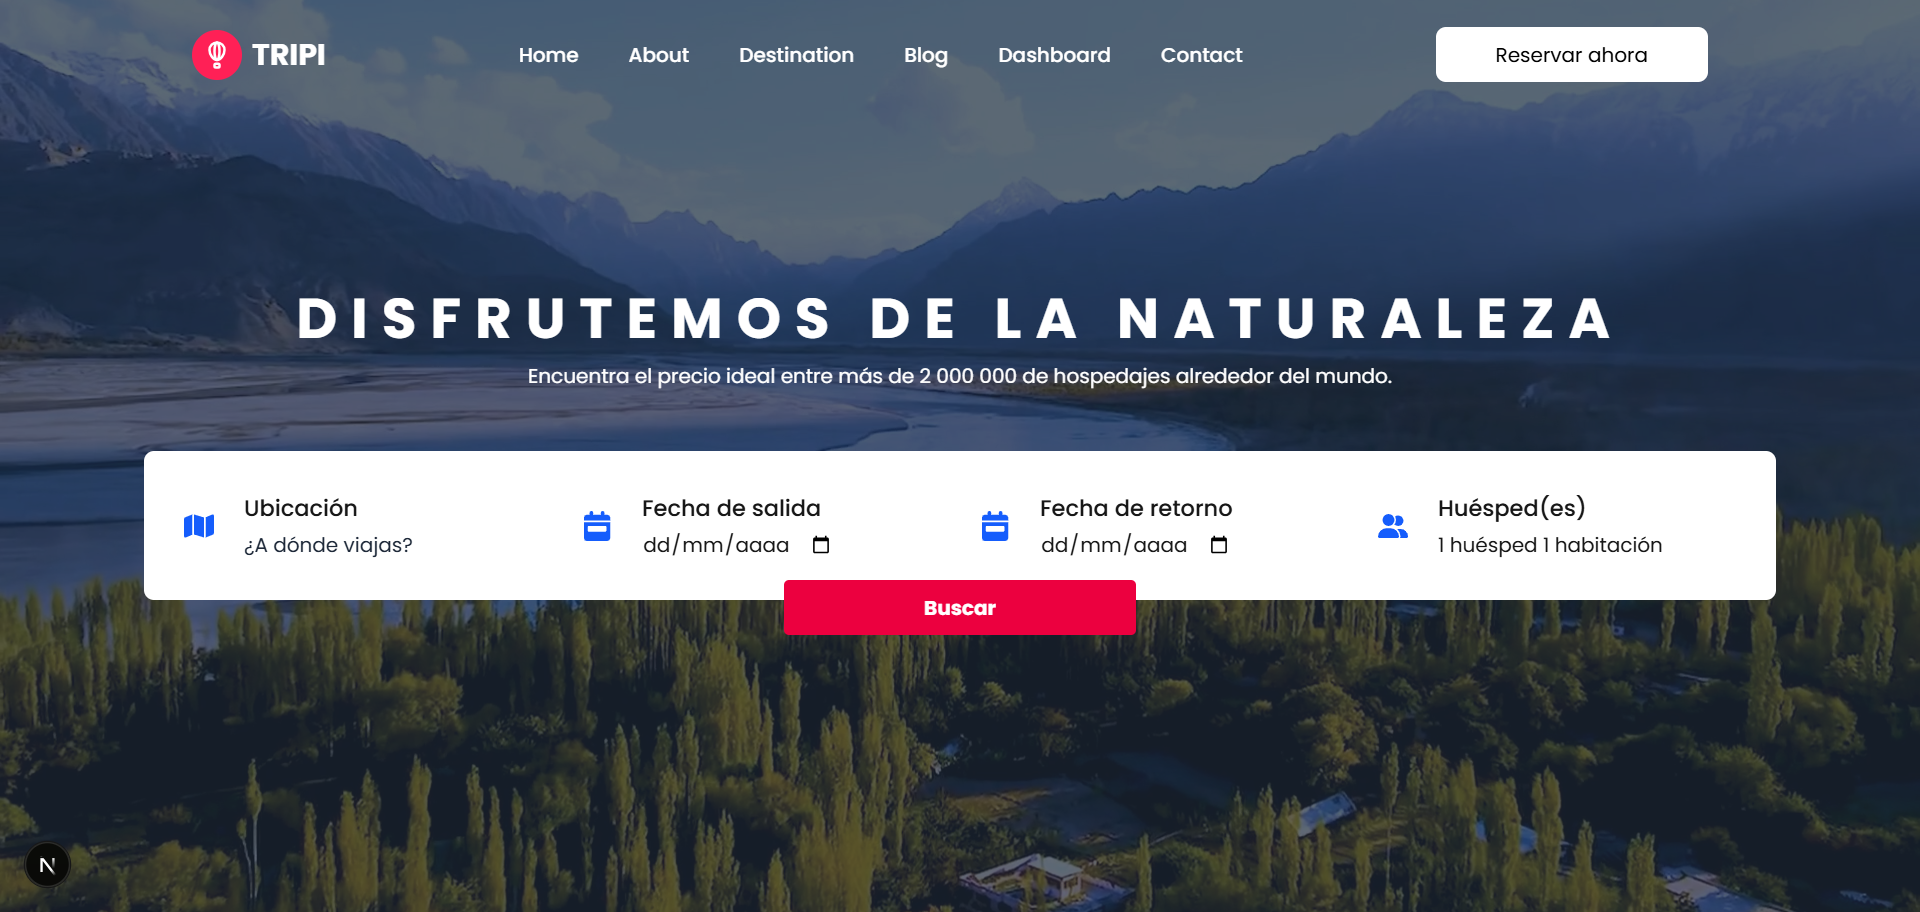
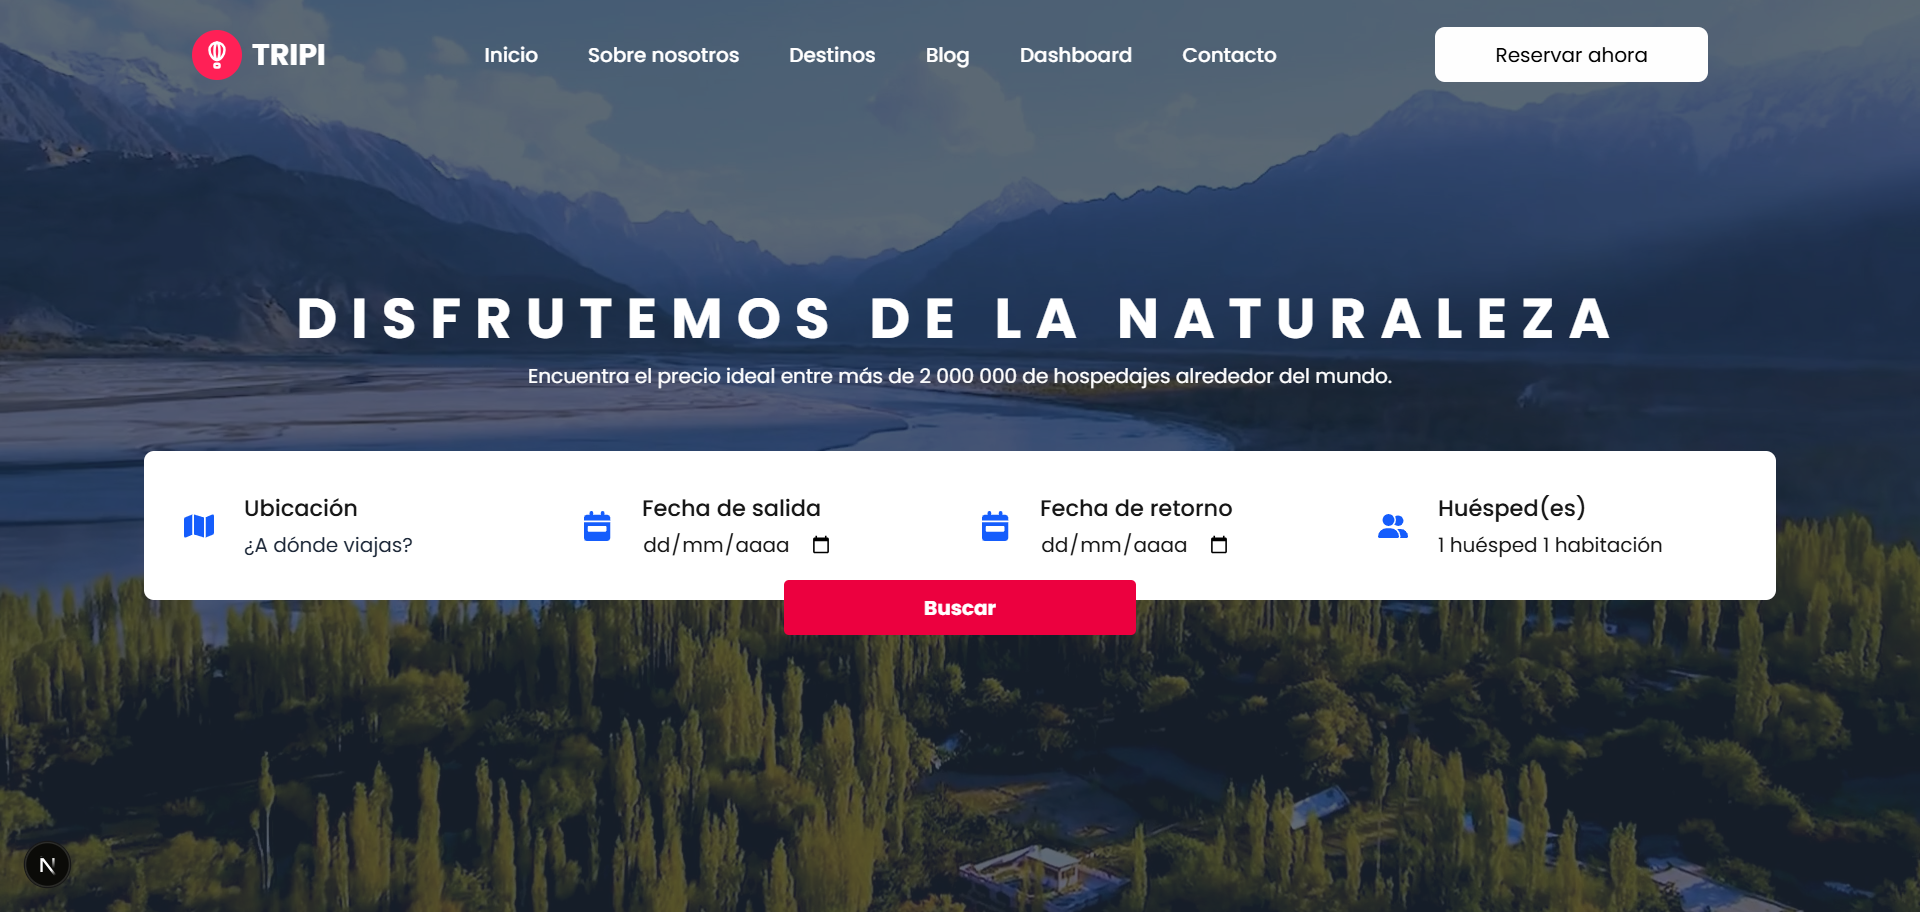
Se traducen los links del Navbar y se cambia el image-preview del README

diff --git a/constant/constant.ts b/constant/constant.ts
@@ -2,17 +2,17 @@ export const navLinks = [
     {
         id: 1,
         url: "#",
-        label: "Home",
+        label: "Inicio",
     },
     {
         id: 2,
         url: "#",
-        label: "About",
+        label: "Sobre nosotros",
     },
     {
         id: 3,
         url: "#",
-        label: "Destination",
+        label: "Destinos",
     },
     {
         id: 4,
@@ -27,6 +27,6 @@ export const navLinks = [
     {
         id: 6,
         url: "#",
-        label: "Contact",
+        label: "Contacto",
     },
 ];
